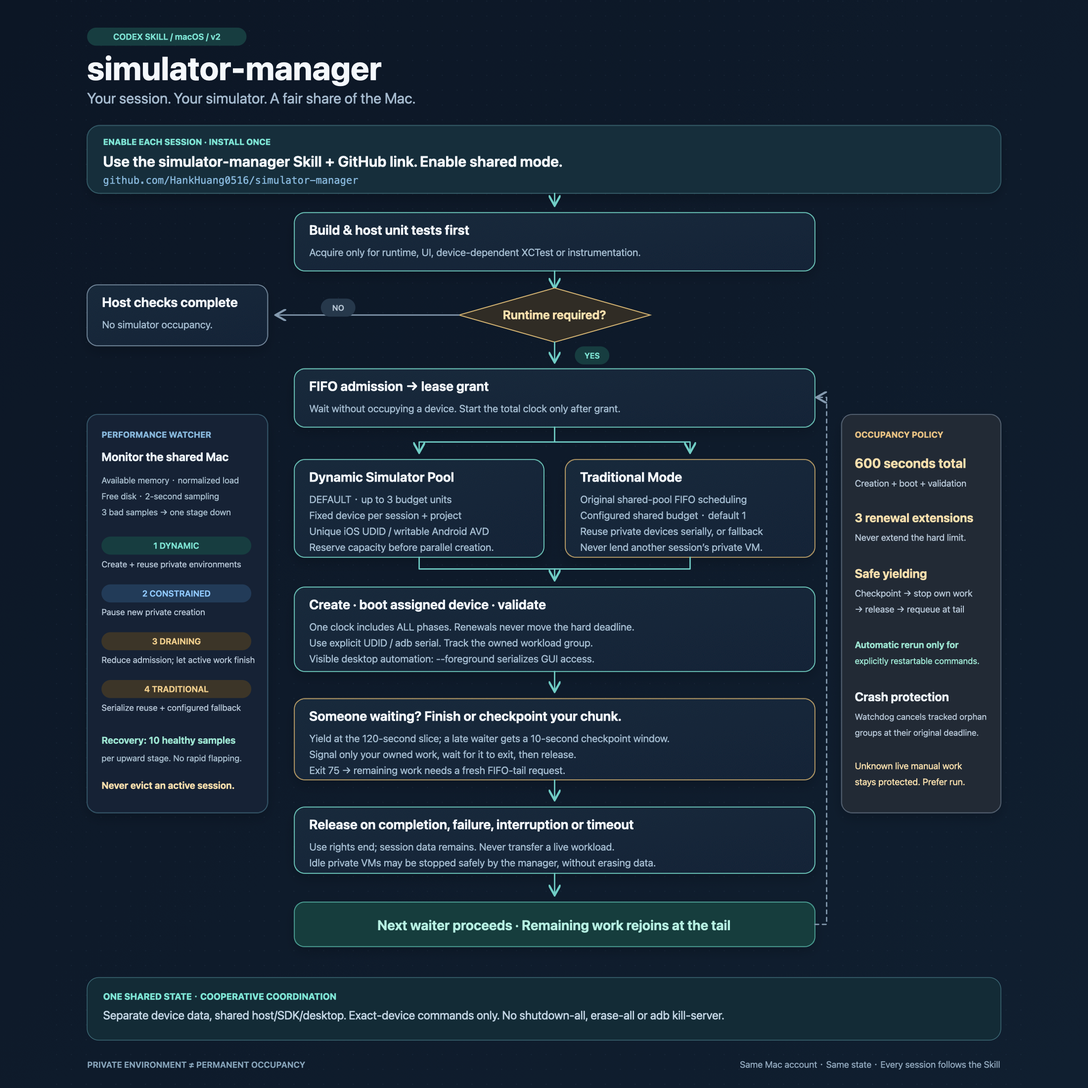
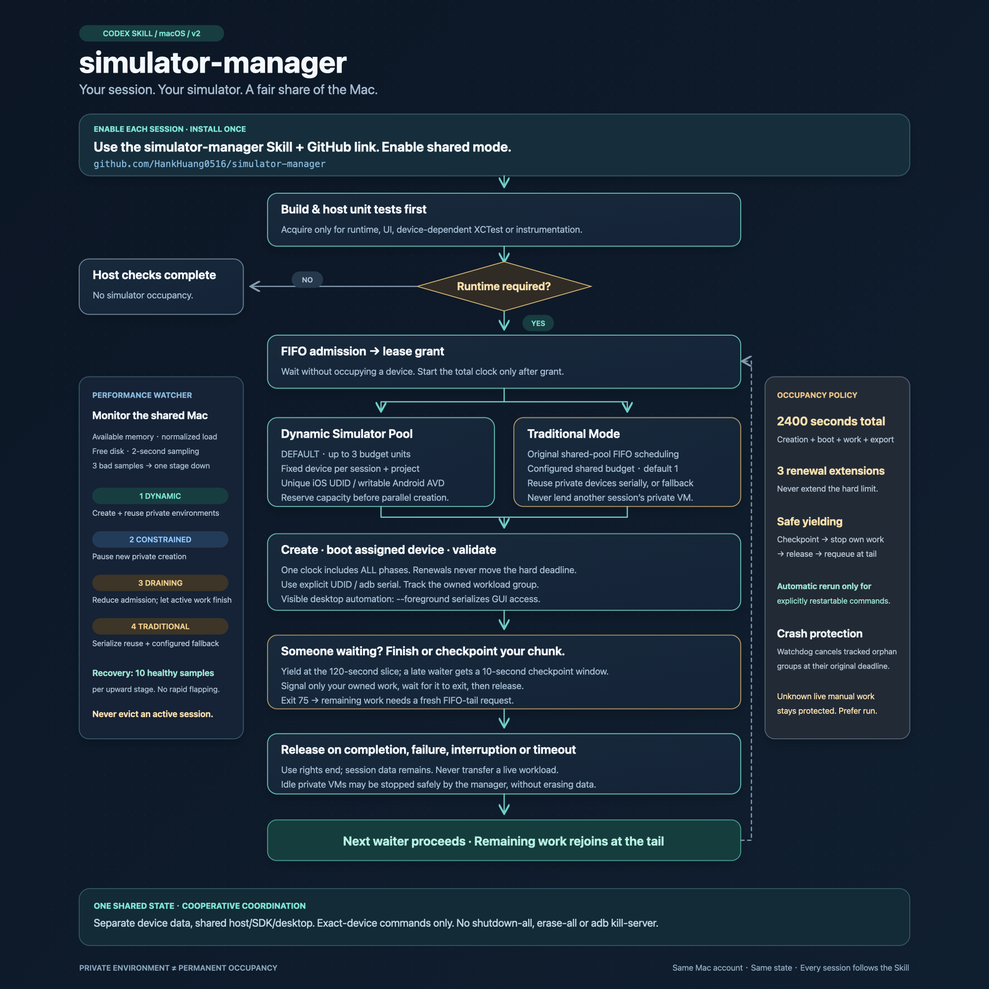
feat: allow 40-minute simulator occupancy

Changed region(s): [[0.775, 0.403, 0.899, 0.465]]

diff --git a/website/site.js b/website/site.js
@@ -1,6 +1,6 @@
 const copy = {
-  en: {eyebrow:"Local Codex Tool · macOS",headline:"Your session.<br><span>Your simulator.</span>",lead:"A fair, pressure-aware control plane for iOS Simulators and Android Emulators across every Codex task on your Mac.",download:"Download Tool",installNow:"Install in one command",compat:"macOS 13+ · Python 3.9+ · Xcode or Android SDK when needed",healthy:"Healthy",pressure:"HOST PRESSURE",dynamic:"Dynamic",privateReady:"3 private slots ready",activeLease:"ACTIVE LEASE",queue:"FIFO QUEUE",yieldIn:"Safe yield in 38s",running:"RUNNING",queued:"QUEUED",waiting:"WAITING",foregroundLane:"Foreground desktop lane",howKicker:"HOW IT WORKS",howTitle:"Codex asks. The manager schedules. Your test runs safely.",howBody:"Builds and unit tests stay on the host. Only runtime or UI checks enter the managed lane, use one exact device, then release automatically.",flowRequest:"Requests runtime validation",flowSchedule:"Checks pressure + FIFO",flowDevice:"Assigned device",flowRelease:"Runs, verifies, releases",privateTitle:"Private by default",privateBody:"Each session and project keeps a stable simulator environment and device data.",fairTitle:"Fair under load",fairBody:"A 10-minute total budget, bounded renewals, and 2-minute slices when someone waits.",pressureTitle:"Pressure aware",pressureBody:"Concurrency steps down gradually to Traditional FIFO before the Mac becomes overloaded.",releaseTitle:"Release, never power off",releaseBody:"Every task returns use rights on success, failure, interruption, timeout, or safe yield while the device stays warm.",installKicker:"INSTALL",installTitle:"One command. One sentence in Codex.",installBody:"The installer adds the CLI, Skill, public marketplace, and Plugin, creates an Applications entry, then opens the one shared dashboard and Quick Start. It uses no sudo and refuses to replace active or unmanaged installations.",copy:"Copy",thenSay:"Then start a new task and say",prompt:"Use simulator-manager for this project.",downloadZip:"Download ZIP",checksum:"SHA-256 checksum",docs:"Full documentation",afterInstallKicker:"AFTER INSTALL",afterInstallTitle:"One dashboard opens. Quick Start takes it from there.",afterInstallBody:"A five-step guide explains when Codex should request a simulator, why every task releases without powering it off, and what happens when a task bypasses the shared lane.",entryTitle:"One visible app entry",entryBody:"The custom routing icon keeps one Simulator Manager UI in the Dock. Repeated launches focus it; Recent Activity identifies each task and total occupancy.",guideTitle:"Built-in lessons",guideBody:"Replay Quick Start from the dashboard’s question-mark button whenever a task needs the rules.",coachTitle:"Task-specific coaching",coachBody:"Registered tasks that bypass leases or attempt simulator shutdown receive a safe managed replacement, even when a lease exists.",languageTitle:"Your language, automatically",languageBody:"The native dashboard follows the device language by default, with persistent English and Traditional Chinese choices.",default:"DEFAULT",dynamicTitle:"Dynamic Simulator Pool",dynamicBody:"Creates stable private iOS and Android environments lazily. Parallel work is admitted only while host resources allow it.",fallback:"AUTOMATIC FALLBACK",traditionalTitle:"Traditional FIFO",traditionalBody:"When pressure rises, work uses a bounded shared pool in queue order. Existing private data and active work stay protected.",privacyTitle:"Local by design",privacyBody:"Scheduling state, device identities, and test output stay on your Mac. Simulator Manager has no account, cloud service, analytics, or telemetry.",portfolio:"AI Hank Apps",copied:"Copied"},
-  "zh-Hant": {eyebrow:"本機 Codex 工具 · macOS",headline:"你的工作階段。<br><span>你的模擬器。</span>",lead:"在同一台 Mac 的所有 Codex 任務之間，公平且能感知效能壓力地管理 iOS Simulator 與 Android Emulator。",download:"下載工具",installNow:"一行指令安裝",compat:"macOS 13+ · Python 3.9+ · 依平台使用 Xcode 或 Android SDK",healthy:"運作正常",pressure:"主機效能壓力",dynamic:"動態模式",privateReady:"3 個私人環境可用",activeLease:"使用中的租約",queue:"FIFO 排隊",yieldIn:"38 秒後安全讓出",running:"執行中",queued:"排隊中",waiting:"等待中",foregroundLane:"前景桌面操作通道",howKicker:"運作方式",howTitle:"Codex 提出需求，管理器負責排程，測試安全執行。",howBody:"建置與單元測試先在主機完成。只有 runtime 或 UI 驗證才進入受管理通道，使用唯一指定裝置並自動釋放。",flowRequest:"提出 runtime 驗證需求",flowSchedule:"檢查效能與 FIFO",flowDevice:"分配指定裝置",flowRelease:"執行、驗證、釋放",privateTitle:"預設私人環境",privateBody:"每個工作階段與專案保有固定的模擬器環境和裝置資料。",fairTitle:"繁忙時保持公平",fairBody:"總占用上限 10 分鐘、續租次數有限；有人等待時每 2 分鐘安全讓出。",pressureTitle:"自動感知效能",pressureBody:"主機負載升高時逐步降低並行量，最後切換為傳統 FIFO。",releaseTitle:"只釋放，不關機",releaseBody:"每個 task 在成功、失敗、中斷、逾時或安全讓出時歸還使用權，並保留暖機裝置。",installKicker:"安裝",installTitle:"一行指令，再對 Codex 說一句話。",installBody:"安裝器會把 CLI、Skill、公開 marketplace 與 Plugin 安裝到使用者帳號、建立「應用程式」入口，接著開啟唯一的共用控制台和 Quick Start；不需要 sudo，也不會覆蓋使用中或不受管理的安裝。",copy:"複製",thenSay:"接著開啟新的 Codex 任務並輸入",prompt:"這個專案使用 simulator-manager。",downloadZip:"下載 ZIP",checksum:"SHA-256 校驗碼",docs:"完整說明文件",afterInstallKicker:"安裝完成後",afterInstallTitle:"唯一的控制台立即出現，Quick Start 接手教學。",afterInstallBody:"五個步驟會說明 Codex 何時該申請模擬器、為何每個 task 釋放後都不能關機，以及偏離共用通道時會發生什麼事。",entryTitle:"唯一且清楚的 App 入口",entryBody:"自訂路由圖示讓唯一的 Simulator Manager UI 顯示在 Dock；重複開啟只會喚回現有視窗，最近活動會列出 task 與總占用時間。",guideTitle:"內建系列教學",guideBody:"需要複習規則時，按控制台上的問號即可重新播放 Quick Start。",coachTitle:"針對 task 的專屬指引",coachBody:"已登記 task 若繞過租約或嘗試關閉模擬器，即使持有租約也會收到安全的受管理替代方式。",languageTitle:"依裝置語系自動顯示",languageBody:"原生浮框預設跟隨裝置語系，也可記住 English 或繁體中文選擇。",default:"預設模式",dynamicTitle:"Dynamic Simulator Pool",dynamicBody:"按需建立固定的私人 iOS 與 Android 環境；只有主機資源足夠時才允許並行工作。",fallback:"自動降級",traditionalTitle:"Traditional FIFO",traditionalBody:"主機壓力升高時改用容量受限的共用資源池並依序排隊；既有私人資料和執行中的工作都會受到保護。",privacyTitle:"從設計上保持本機運作",privacyBody:"排程狀態、裝置識別與測試輸出都留在你的 Mac。Simulator Manager 不需要帳號，也沒有雲端服務、分析或遙測。",portfolio:"AI Hank Apps 作品集",copied:"已複製"}
+  en: {eyebrow:"Local Codex Tool · macOS",headline:"Your session.<br><span>Your simulator.</span>",lead:"A fair, pressure-aware control plane for iOS Simulators and Android Emulators across every Codex task on your Mac.",download:"Download Tool",installNow:"Install in one command",compat:"macOS 13+ · Python 3.9+ · Xcode or Android SDK when needed",healthy:"Healthy",pressure:"HOST PRESSURE",dynamic:"Dynamic",privateReady:"3 private slots ready",activeLease:"ACTIVE LEASE",queue:"FIFO QUEUE",yieldIn:"Safe yield in 38s",running:"RUNNING",queued:"QUEUED",waiting:"WAITING",foregroundLane:"Foreground desktop lane",howKicker:"HOW IT WORKS",howTitle:"Codex asks. The manager schedules. Your test runs safely.",howBody:"Builds and unit tests stay on the host. Only runtime or UI checks enter the managed lane, use one exact device, then release automatically.",flowRequest:"Requests runtime validation",flowSchedule:"Checks pressure + FIFO",flowDevice:"Assigned device",flowRelease:"Runs, verifies, releases",privateTitle:"Private by default",privateBody:"Each session and project keeps a stable simulator environment and device data.",fairTitle:"Fair under load",fairBody:"A 40-minute total budget supports long tests; a waiting task still triggers a safe yield at 2 minutes.",pressureTitle:"Pressure aware",pressureBody:"Concurrency steps down gradually to Traditional FIFO before the Mac becomes overloaded.",releaseTitle:"Release, never power off",releaseBody:"Every task returns use rights on success, failure, interruption, timeout, or safe yield while the device stays warm.",installKicker:"INSTALL",installTitle:"One command. One sentence in Codex.",installBody:"The installer adds the CLI, Skill, public marketplace, and Plugin, creates an Applications entry, then opens the one shared dashboard and Quick Start. It uses no sudo and refuses to replace active or unmanaged installations.",copy:"Copy",thenSay:"Then start a new task and say",prompt:"Use simulator-manager for this project.",downloadZip:"Download ZIP",checksum:"SHA-256 checksum",docs:"Full documentation",afterInstallKicker:"AFTER INSTALL",afterInstallTitle:"One dashboard opens. Quick Start takes it from there.",afterInstallBody:"A five-step guide explains when Codex should request a simulator, why every task releases without powering it off, and what happens when a task bypasses the shared lane.",entryTitle:"One visible app entry",entryBody:"The custom routing icon keeps one Simulator Manager UI in the Dock. Repeated launches focus it; Recent Activity identifies each task and total occupancy.",guideTitle:"Built-in lessons",guideBody:"Replay Quick Start from the dashboard’s question-mark button whenever a task needs the rules.",coachTitle:"Task-specific coaching",coachBody:"Registered tasks that bypass leases or attempt simulator shutdown receive a safe managed replacement, even when a lease exists.",languageTitle:"Your language, automatically",languageBody:"The native dashboard follows the device language by default, with persistent English and Traditional Chinese choices.",default:"DEFAULT",dynamicTitle:"Dynamic Simulator Pool",dynamicBody:"Creates stable private iOS and Android environments lazily. Parallel work is admitted only while host resources allow it.",fallback:"AUTOMATIC FALLBACK",traditionalTitle:"Traditional FIFO",traditionalBody:"When pressure rises, work uses a bounded shared pool in queue order. Existing private data and active work stay protected.",privacyTitle:"Local by design",privacyBody:"Scheduling state, device identities, and test output stay on your Mac. Simulator Manager has no account, cloud service, analytics, or telemetry.",portfolio:"AI Hank Apps",copied:"Copied"},
+  "zh-Hant": {eyebrow:"本機 Codex 工具 · macOS",headline:"你的工作階段。<br><span>你的模擬器。</span>",lead:"在同一台 Mac 的所有 Codex 任務之間，公平且能感知效能壓力地管理 iOS Simulator 與 Android Emulator。",download:"下載工具",installNow:"一行指令安裝",compat:"macOS 13+ · Python 3.9+ · 依平台使用 Xcode 或 Android SDK",healthy:"運作正常",pressure:"主機效能壓力",dynamic:"動態模式",privateReady:"3 個私人環境可用",activeLease:"使用中的租約",queue:"FIFO 排隊",yieldIn:"38 秒後安全讓出",running:"執行中",queued:"排隊中",waiting:"等待中",foregroundLane:"前景桌面操作通道",howKicker:"運作方式",howTitle:"Codex 提出需求，管理器負責排程，測試安全執行。",howBody:"建置與單元測試先在主機完成。只有 runtime 或 UI 驗證才進入受管理通道，使用唯一指定裝置並自動釋放。",flowRequest:"提出 runtime 驗證需求",flowSchedule:"檢查效能與 FIFO",flowDevice:"分配指定裝置",flowRelease:"執行、驗證、釋放",privateTitle:"預設私人環境",privateBody:"每個工作階段與專案保有固定的模擬器環境和裝置資料。",fairTitle:"繁忙時保持公平",fairBody:"總占用上限 40 分鐘，可容納長時間測試；有人等待時仍須在 2 分鐘安全切點讓出。",pressureTitle:"自動感知效能",pressureBody:"主機負載升高時逐步降低並行量，最後切換為傳統 FIFO。",releaseTitle:"只釋放，不關機",releaseBody:"每個 task 在成功、失敗、中斷、逾時或安全讓出時歸還使用權，並保留暖機裝置。",installKicker:"安裝",installTitle:"一行指令，再對 Codex 說一句話。",installBody:"安裝器會把 CLI、Skill、公開 marketplace 與 Plugin 安裝到使用者帳號、建立「應用程式」入口，接著開啟唯一的共用控制台和 Quick Start；不需要 sudo，也不會覆蓋使用中或不受管理的安裝。",copy:"複製",thenSay:"接著開啟新的 Codex 任務並輸入",prompt:"這個專案使用 simulator-manager。",downloadZip:"下載 ZIP",checksum:"SHA-256 校驗碼",docs:"完整說明文件",afterInstallKicker:"安裝完成後",afterInstallTitle:"唯一的控制台立即出現，Quick Start 接手教學。",afterInstallBody:"五個步驟會說明 Codex 何時該申請模擬器、為何每個 task 釋放後都不能關機，以及偏離共用通道時會發生什麼事。",entryTitle:"唯一且清楚的 App 入口",entryBody:"自訂路由圖示讓唯一的 Simulator Manager UI 顯示在 Dock；重複開啟只會喚回現有視窗，最近活動會列出 task 與總占用時間。",guideTitle:"內建系列教學",guideBody:"需要複習規則時，按控制台上的問號即可重新播放 Quick Start。",coachTitle:"針對 task 的專屬指引",coachBody:"已登記 task 若繞過租約或嘗試關閉模擬器，即使持有租約也會收到安全的受管理替代方式。",languageTitle:"依裝置語系自動顯示",languageBody:"原生浮框預設跟隨裝置語系，也可記住 English 或繁體中文選擇。",default:"預設模式",dynamicTitle:"Dynamic Simulator Pool",dynamicBody:"按需建立固定的私人 iOS 與 Android 環境；只有主機資源足夠時才允許並行工作。",fallback:"自動降級",traditionalTitle:"Traditional FIFO",traditionalBody:"主機壓力升高時改用容量受限的共用資源池並依序排隊；既有私人資料和執行中的工作都會受到保護。",privacyTitle:"從設計上保持本機運作",privacyBody:"排程狀態、裝置識別與測試輸出都留在你的 Mac。Simulator Manager 不需要帳號，也沒有雲端服務、分析或遙測。",portfolio:"AI Hank Apps 作品集",copied:"已複製"}
 };
 
 const normalize = value => value && value.toLowerCase().startsWith("zh") ? "zh-Hant" : "en";

diff --git a/dashboard/SimulatorManager.swift b/dashboard/SimulatorManager.swift
@@ -147,14 +147,14 @@ func localizedGuide(_ zh: Bool) -> [GuideCopy] {
         GuideCopy(title:"歡迎使用 Simulator Manager",body:"這個小浮框是所有 Codex task 共用的模擬器中轉站。關閉視窗只會隱藏；可從選單列或「應用程式」再次打開。",bullets:["安裝完成後自動啟動","常駐選單列，隨時查看排程","不會清除任何模擬器資料"],symbol:"square.stack.3d.up.fill"),
         GuideCopy(title:"先完成不需要模擬器的檢查",body:"Codex 應先執行編譯、靜態檢查與主機單元測試；只有畫面、導覽、手勢、生命週期或執行期行為才進入分配流程。",bullets:["文件與純邏輯通常不需模擬器","需要 runtime/UI 驗證才提出請求","避免浪費啟動與佔用時間"],symbol:"hammer.fill"),
         GuideCopy(title:"讓 Tool 取得精確裝置",body:"在 Codex task 說「Use simulator-manager for this project.」。Tool 會排隊、啟動指定裝置、執行測試，並在成功、失敗、逾時或中斷後自動釋放。",bullets:["不得直接選擇 booted 裝置","不得使用未指定的 adb target","每個 task 都只能 release，必須保留暖機裝置"],symbol:"play.circle.fill"),
-        GuideCopy(title:"公平使用與安全讓位",body:"建立、開機與測試共用同一個 10 分鐘上限；有人等待時，工作必須在安全切點完成並回到隊尾。",bullets:["總佔用上限包含開機","續租次數有限","禁止 simctl shutdown、adb emu kill 或關閉 emulator"],symbol:"person.2.fill"),
+        GuideCopy(title:"公平使用與安全讓位",body:"建立、開機、安裝、測試與匯出共用同一個 40 分鐘上限；有人等待時，仍須在 2 分鐘安全切點完成並回到隊尾。",bullets:["1800 秒 soak 可在無人等待時完成","總佔用上限包含開機與匯出","禁止 simctl shutdown、adb emu kill 或關閉 emulator"],symbol:"person.2.fill"),
         GuideCopy(title:"偏離規則時會主動教學",body:"監督程式只讀取已登記 task 的程序關係。發現直接使用 simctl、adb、emulator 或未租用的模擬器測試時，會標記該 task 並產生修正指引。",bullets:["只記錄動作種類，不保存完整命令","不會終止 task 或裝置","已採用 Tool 的 task 會在下次互動收到專屬指引"],symbol:"graduationcap.fill")
     ] }
     return [
         GuideCopy(title:"Welcome to Simulator Manager",body:"This floating dashboard is the shared control plane between Codex tasks and mobile simulators. Closing the panel only hides it; reopen it from the menu bar or Applications.",bullets:["Opens after installation","Lives in the menu bar","Never erases simulator data"],symbol:"square.stack.3d.up.fill"),
         GuideCopy(title:"Run host checks first",body:"Codex should finish builds, static checks, and host unit tests before requesting a device. Enter the managed lane only for UI or runtime behavior.",bullets:["Docs and pure logic usually need no simulator","Request only for runtime or UI validation","Avoid unnecessary boot and occupancy time"],symbol:"hammer.fill"),
         GuideCopy(title:"Let the Tool assign one exact device",body:"Tell a Codex task “Use simulator-manager for this project.” The Tool queues, boots, runs, and releases after success, failure, interruption, or timeout.",bullets:["Never target booted implicitly","Never use an unspecified adb target","Every task must release and leave the verified device warm"],symbol:"play.circle.fill"),
-        GuideCopy(title:"Share fairly and yield safely",body:"Creation, boot, and testing share one 10-minute cap. When someone waits, checkpoint safely and rejoin at the back of the queue.",bullets:["Boot time counts toward occupancy","Renewals are bounded","Never shut down a device; the manager reuses or retires it"],symbol:"person.2.fill"),
+        GuideCopy(title:"Share fairly and yield safely",body:"Creation, boot, installation, testing, and export share one 40-minute cap. When someone waits, checkpoint at the 2-minute boundary and rejoin at the back of the queue.",bullets:["A 1800-second soak fits while nobody waits","Boot and export count toward occupancy","Never shut down a device; the manager reuses or retires it"],symbol:"person.2.fill"),
         GuideCopy(title:"Coaching appears when a task drifts",body:"The watcher reads process relationships for registered tasks. Direct simctl, adb, emulator, or unleased simulator tests create targeted guidance.",bullets:["Stores the action type, never the full command","Never kills a task or device","Tool-enabled tasks receive their lesson on the next interaction"],symbol:"graduationcap.fill")
     ]
 }

diff --git a/website/index.html b/website/index.html
@@ -11,14 +11,14 @@
   <meta property="og:type" content="website">
   <meta property="og:url" content="https://eclawbot.com/AiHankApps/tools/simulator-manager/">
   <link rel="canonical" href="https://eclawbot.com/AiHankApps/tools/simulator-manager/">
-  <link rel="icon" type="image/png" href="simulator-manager-icon.png?v=3.4.1">
-  <link rel="stylesheet" href="site.css?v=3.4.1">
-  <script src="site.js?v=3.4.1" defer></script>
+  <link rel="icon" type="image/png" href="simulator-manager-icon.png?v=3.5.0">
+  <link rel="stylesheet" href="site.css?v=3.5.0">
+  <script src="site.js?v=3.5.0" defer></script>
 </head>
 <body>
   <div class="aurora a1"></div><div class="aurora a2"></div>
   <nav class="nav shell" aria-label="Main navigation">
-    <a class="brand" href="./"><img class="brand-icon" src="simulator-manager-icon.png?v=3.4.1" alt=""><span>Simulator Manager</span></a>
+    <a class="brand" href="./"><img class="brand-icon" src="simulator-manager-icon.png?v=3.5.0" alt=""><span>Simulator Manager</span></a>
     <div class="nav-actions">
       <div class="language" aria-label="Language"><button type="button" data-lang="en">EN</button><button type="button" data-lang="zh-Hant">中文</button></div>
       <a class="ghost" href="https://github.com/HankHuang0516/simulator-manager">GitHub</a>
@@ -27,7 +27,7 @@
 
   <main>
     <section class="hero shell">
-      <img class="hero-app-icon" src="simulator-manager-icon.png?v=3.4.1" alt="Simulator Manager app icon">
+      <img class="hero-app-icon" src="simulator-manager-icon.png?v=3.5.0" alt="Simulator Manager app icon">
       <div class="eyebrow"><span class="live-dot"></span><span data-sm-i18n="eyebrow">Local Codex Tool · macOS</span></div>
       <h1 data-sm-i18n="headline">Your session.<br><span>Your simulator.</span></h1>
       <p class="lead" data-sm-i18n="lead">A fair, pressure-aware control plane for iOS Simulators and Android Emulators across every Codex task on your Mac.</p>
@@ -62,7 +62,7 @@
 
     <section class="section shell cards">
       <article><div class="icon blue">◇</div><h3 data-sm-i18n="privateTitle">Private by default</h3><p data-sm-i18n="privateBody">Each session and project keeps a stable simulator environment and device data.</p></article>
-      <article><div class="icon green">↯</div><h3 data-sm-i18n="fairTitle">Fair under load</h3><p data-sm-i18n="fairBody">A 10-minute total budget, bounded renewals, and 2-minute slices when someone waits.</p></article>
+      <article><div class="icon green">↯</div><h3 data-sm-i18n="fairTitle">Fair under load</h3><p data-sm-i18n="fairBody">A 40-minute total budget supports long tests; a waiting task still triggers a safe yield at 2 minutes.</p></article>
       <article><div class="icon purple">⌁</div><h3 data-sm-i18n="pressureTitle">Pressure aware</h3><p data-sm-i18n="pressureBody">Concurrency steps down gradually to Traditional FIFO before the Mac becomes overloaded.</p></article>
       <article><div class="icon orange">✓</div><h3 data-sm-i18n="releaseTitle">Guaranteed release</h3><p data-sm-i18n="releaseBody">Supervised work releases on success, failure, interruption, timeout, or safe yield.</p></article>
     </section>

diff --git a/plugins/simulator-manager/scripts/mcp_server.py b/plugins/simulator-manager/scripts/mcp_server.py
@@ -12,7 +12,7 @@ import sys
 from typing import Any
 
 PROTOCOL_VERSION = "2025-03-26"
-SERVER_VERSION = "3.4.1"
+SERVER_VERSION = "3.5.0"
 MAX_CAPTURE = 32768
 
 TOOLS = [
@@ -37,7 +37,7 @@ TOOLS = [
     },
     {
         "name": "simulator_manager_run",
-        "description": "Acquire through FIFO admission, optionally boot the assigned device, run one argv command under the total occupancy deadline, and always release without powering off the simulator/emulator. Explicit shutdown actions are rejected. Use only after build/unit checks show runtime or UI validation is needed.",
+        "description": "Acquire through FIFO admission, optionally boot the assigned device, run one argv command under a total occupancy deadline of up to 2400 seconds, and always release without powering off the simulator/emulator. If another task waits, checkpoint at the 120-second fair-use boundary and requeue. Explicit shutdown actions are rejected. Use only after build/unit checks show runtime or UI validation is needed.",
         "inputSchema": {
             "type": "object",
             "properties": {
@@ -48,8 +48,8 @@ TOOLS = [
                 "boot": {"type": "boolean", "default": True},
                 "foreground": {"type": "boolean", "default": False},
                 "queue_timeout_seconds": {"type": "number", "minimum": 0, "maximum": 900, "default": 300},
-                "command_timeout_seconds": {"type": "number", "exclusiveMinimum": 0, "maximum": 600, "default": 600},
-                "budget_seconds": {"type": "number", "exclusiveMinimum": 0, "maximum": 600, "default": 600},
+                "command_timeout_seconds": {"type": "number", "exclusiveMinimum": 0, "maximum": 2400, "default": 2400},
+                "budget_seconds": {"type": "number", "exclusiveMinimum": 0, "maximum": 2400, "default": 2400},
                 "restartable": {"type": "boolean", "default": False},
                 "max_requeues": {"type": "integer", "minimum": 0, "maximum": 3, "default": 0},
             },
@@ -192,8 +192,8 @@ def invoke_tool(name: str, arguments: dict[str, Any] | None) -> dict[str, Any]:
             raise ToolError("command must be a non-empty array of non-empty argv strings")
         _reject_runtime_shutdown(command)
         queue_timeout = _number(a.get("queue_timeout_seconds", 300), "queue_timeout_seconds", 0, 900)
-        command_timeout = _number(a.get("command_timeout_seconds", 600), "command_timeout_seconds", 0.001, 600)
-        budget = _number(a.get("budget_seconds", 600), "budget_seconds", 0.001, 600)
+        command_timeout = _number(a.get("command_timeout_seconds", 2400), "command_timeout_seconds", 0.001, 2400)
+        budget = _number(a.get("budget_seconds", 2400), "budget_seconds", 0.001, 2400)
         max_requeues = a.get("max_requeues", 0)
         if isinstance(max_requeues, bool) or not isinstance(max_requeues, int) or not 0 <= max_requeues <= 3:
             raise ToolError("max_requeues must be an integer from 0 to 3")

diff --git a/tests/test_mcp_server.py b/tests/test_mcp_server.py
@@ -30,6 +30,14 @@ class MCPServerTests(unittest.TestCase):
             "simulator_manager_guidance",
         })
 
+    def test_run_schema_allows_forty_minute_occupancy(self):
+        run_tool = next(tool for tool in MCP.TOOLS if tool["name"] == "simulator_manager_run")
+        props = run_tool["inputSchema"]["properties"]
+        self.assertEqual(props["command_timeout_seconds"]["default"], 2400)
+        self.assertEqual(props["command_timeout_seconds"]["maximum"], 2400)
+        self.assertEqual(props["budget_seconds"]["default"], 2400)
+        self.assertEqual(props["budget_seconds"]["maximum"], 2400)
+
     def test_enable_registers_long_lived_mcp_owner_and_returns_guidance(self):
         completed = subprocess.CompletedProcess([], 0, '{"shared_mode":true}\n', "")
         with mock.patch.object(MCP, "cli_path", return_value="/tmp/sim-manager"), \
@@ -46,13 +54,21 @@ class MCPServerTests(unittest.TestCase):
              mock.patch.object(MCP.subprocess, "run", return_value=completed) as run:
             result = MCP.invoke_tool("simulator_manager_run", {
                 "platform": "ios", "session": "task-1", "project": "/tmp/app",
-                "command": ["xcodebuild", "test"], "budget_seconds": 90,
+                "command": ["xcodebuild", "test"], "command_timeout_seconds": 1800,
+                "budget_seconds": 2400,
             })
         self.assertTrue(result["released"])
         argv = run.call_args.args[0]
         self.assertEqual(argv[-3:], ["--", "xcodebuild", "test"])
         self.assertIn("--boot", argv)
+        self.assertEqual(argv[argv.index("--command-timeout") + 1], "1800.0")
+        self.assertEqual(argv[argv.index("--budget-seconds") + 1], "2400.0")
         self.assertIs(run.call_args.kwargs["shell"], False)
+
+    def test_run_rejects_occupancy_above_forty_minutes(self):
+        base = {"platform": "ios", "session": "s", "project": "/tmp/p", "command": ["true"]}
+        with self.assertRaisesRegex(MCP.ToolError, "between 0.001 and 2400"):
+            MCP.invoke_tool("simulator_manager_run", {**base, "budget_seconds": 2401})
 
     def test_run_rejects_shell_string_and_unsafe_requeue(self):
         base = {"platform": "android", "session": "s", "project": "/tmp/p"}

diff --git a/sim_manager/core.py b/sim_manager/core.py
@@ -104,7 +104,7 @@ def normalize_config(c):
     if c['mode'] not in ('dynamic','traditional'):
         raise ManagerError('mode must be dynamic or traditional')
     defaults = {
-        'policy':{'max_hold_seconds':600,'max_renewals':3,'waiter_slice_seconds':120,'yield_grace_seconds':10},
+        'policy':{'max_hold_seconds':2400,'max_renewals':3,'waiter_slice_seconds':120,'yield_grace_seconds':10},
         'dynamic':{'max_parallel':3,'max_environments':24,'idle_shutdown_seconds':120},
         'monitor':{'sample_seconds':2,'low_memory_percent':20,'critical_memory_percent':10,
                    'recovery_memory_percent':30,'high_load_ratio':.85,'critical_load_ratio':1.25,
@@ -122,7 +122,7 @@ def normalize_config(c):
                 positive(c[section][key],section+'.'+key,key=='max_renewals')
                 if key in ('max_renewals','max_parallel','max_environments','bad_samples','good_samples') and not isinstance(c[section][key],int):
                     raise ManagerError(section+'.'+key+' must be an integer')
-    c.setdefault('lease_seconds', 900)
+    c.setdefault('lease_seconds', 2400)
     c.setdefault('poll_seconds', .25)
     c.setdefault('global_capacity', 2)
     positive(c['lease_seconds'], 'lease_seconds')
@@ -234,7 +234,7 @@ class Manager:
                 if name not in columns:
                     self.db.execute('ALTER TABLE leases ADD COLUMN '+name+' '+definition)
             columns = {r['name'] for r in self.db.execute('PRAGMA table_info(queue)')}
-            for name, definition in [('requested_mode',"TEXT NOT NULL DEFAULT 'auto'"),('foreground','INTEGER NOT NULL DEFAULT 0'),('budget','REAL NOT NULL DEFAULT 600')]:
+            for name, definition in [('requested_mode',"TEXT NOT NULL DEFAULT 'auto'"),('foreground','INTEGER NOT NULL DEFAULT 0'),('budget','REAL NOT NULL DEFAULT 2400')]:
                 if name not in columns:
                     self.db.execute('ALTER TABLE queue ADD COLUMN '+name+' '+definition)
             columns = {r['name'] for r in self.db.execute('PRAGMA table_info(events)')}

diff --git a/sim_manager/cli.py b/sim_manager/cli.py
@@ -59,7 +59,7 @@ def parser():
             s.add_argument('--max-requeues',type=int,default=3)
             s.add_argument('--boot', action='store_true')
             s.add_argument('--boot-timeout', type=float, default=180)
-            s.add_argument('--command-timeout', type=float, default=600)
+            s.add_argument('--command-timeout', type=float, default=2400)
             # Commands must follow --. Parse separately so options before -- work.
     for name in ('release','renew','boot','repair-android-target'):
         s = subs.add_parser(name, parents=[common])

diff --git a/sim_manager/__init__.py b/sim_manager/__init__.py
@@ -1,1 +1,1 @@
-__version__ = '3.4.1'
+__version__ = '3.5.0'

diff --git a/plugins/simulator-manager/skills/simulator-manager/SKILL.md b/plugins/simulator-manager/skills/simulator-manager/SKILL.md
@@ -33,13 +33,13 @@ Call `simulator_manager_run` with `platform`, the saved `session`, the canonical
 The equivalent CLI form is:
 
 ```sh
-sim-manager run ios --session '<saved-label>' --project '/saved/absolute/project/path' --boot --timeout 300 --budget-seconds 600 -- sh -eu -c '
+sim-manager run ios --session '<saved-label>' --project '/saved/absolute/project/path' --boot --timeout 300 --command-timeout 2400 --budget-seconds 2400 -- sh -eu -c '
   xcodebuild test-without-building -scheme MyApp -destination "id=$SIM_MANAGER_UDID"
 '
 ```
 
 ```sh
-sim-manager run android --session '<saved-label>' --project '/saved/absolute/project/path' --boot --timeout 300 --budget-seconds 600 -- sh -eu -c '
+sim-manager run android --session '<saved-label>' --project '/saved/absolute/project/path' --boot --timeout 300 --command-timeout 2400 --budget-seconds 2400 -- sh -eu -c '
   adb -s "$SIM_MANAGER_SERIAL" install -r app/build/outputs/apk/debug/app-debug.apk
   adb -s "$SIM_MANAGER_SERIAL" shell am start -n com.example.app/.MainActivity
   # Add meaningful, explicitly targeted runtime assertions.
@@ -54,9 +54,9 @@ Only use assigned `SIM_MANAGER_UDID` / `SIM_MANAGER_SERIAL`. Never use `booted`,
 
 ## Occupancy and fair-use rules
 
-- Default total use budget: **600 seconds including creation and boot**. Request less with `--budget-seconds`; never exceed the shared maximum. Do not reset the clock by switching phases or renewing.
+- Default total use budget: **2400 seconds (40 minutes) including creation, boot, installation, validation and artifact export**. Request less with `--budget-seconds`; never exceed the shared maximum. A 1800-second soak fits only when no waiter arrives. Do not reset the clock by switching phases or renewing.
 - At most **3 actual lease extensions**. No-op renewal checks do not count; every extension remains capped by the original hard deadline. An expired lease cannot be revived. Finish/cancel, release and request a fresh lease.
-- When someone waits, yield at the **120-second** slice boundary. If that boundary is already past, the manager gives a **10-second** checkpoint window, capped by the original deadline. Observe the reported `yield_by` and remaining time.
+- When someone waits, yield at the **120-second** slice boundary even if the 2400-second hard limit has time remaining. If that boundary is already past, the manager gives a **10-second** checkpoint window, capped by the original deadline. Observe the reported `yield_by` and remaining time.
 - Split validation into short chunks. Handle SIGTERM by checkpointing and exiting; the supervisor then cancels surviving owned processes after its termination grace. Cancellation is not arbitrary side-effect rollback.
 - Exit **75** means safely yielded: request remaining work again at the **FIFO tail**. Keep the same environment label, but obtain a new lease token. Never continue using the simulator between leases or jump the queue.
 - Only explicitly checkpointed/restartable commands may use `--requeue-on-yield --max-requeues 3`. Otherwise save remaining steps and request them separately. If retries/queue wait end, report pending validation and requeue remaining work when continuing; never silently skip it.

diff --git a/skill/simulator-manager/SKILL.md b/skill/simulator-manager/SKILL.md
@@ -33,13 +33,13 @@ Call `simulator_manager_run` with `platform`, the saved `session`, the canonical
 The equivalent CLI form is:
 
 ```sh
-sim-manager run ios --session '<saved-label>' --project '/saved/absolute/project/path' --boot --timeout 300 --budget-seconds 600 -- sh -eu -c '
+sim-manager run ios --session '<saved-label>' --project '/saved/absolute/project/path' --boot --timeout 300 --command-timeout 2400 --budget-seconds 2400 -- sh -eu -c '
   xcodebuild test-without-building -scheme MyApp -destination "id=$SIM_MANAGER_UDID"
 '
 ```
 
 ```sh
-sim-manager run android --session '<saved-label>' --project '/saved/absolute/project/path' --boot --timeout 300 --budget-seconds 600 -- sh -eu -c '
+sim-manager run android --session '<saved-label>' --project '/saved/absolute/project/path' --boot --timeout 300 --command-timeout 2400 --budget-seconds 2400 -- sh -eu -c '
   adb -s "$SIM_MANAGER_SERIAL" install -r app/build/outputs/apk/debug/app-debug.apk
   adb -s "$SIM_MANAGER_SERIAL" shell am start -n com.example.app/.MainActivity
   # Add meaningful, explicitly targeted runtime assertions.
@@ -54,9 +54,9 @@ Only use assigned `SIM_MANAGER_UDID` / `SIM_MANAGER_SERIAL`. Never use `booted`,
 
 ## Occupancy and fair-use rules
 
-- Default total use budget: **600 seconds including creation and boot**. Request less with `--budget-seconds`; never exceed the shared maximum. Do not reset the clock by switching phases or renewing.
+- Default total use budget: **2400 seconds (40 minutes) including creation, boot, installation, validation and artifact export**. Request less with `--budget-seconds`; never exceed the shared maximum. A 1800-second soak fits only when no waiter arrives. Do not reset the clock by switching phases or renewing.
 - At most **3 actual lease extensions**. No-op renewal checks do not count; every extension remains capped by the original hard deadline. An expired lease cannot be revived. Finish/cancel, release and request a fresh lease.
-- When someone waits, yield at the **120-second** slice boundary. If that boundary is already past, the manager gives a **10-second** checkpoint window, capped by the original deadline. Observe the reported `yield_by` and remaining time.
+- When someone waits, yield at the **120-second** slice boundary even if the 2400-second hard limit has time remaining. If that boundary is already past, the manager gives a **10-second** checkpoint window, capped by the original deadline. Observe the reported `yield_by` and remaining time.
 - Split validation into short chunks. Handle SIGTERM by checkpointing and exiting; the supervisor then cancels surviving owned processes after its termination grace. Cancellation is not arbitrary side-effect rollback.
 - Exit **75** means safely yielded: request remaining work again at the **FIFO tail**. Keep the same environment label, but obtain a new lease token. Never continue using the simulator between leases or jump the queue.
 - Only explicitly checkpointed/restartable commands may use `--requeue-on-yield --max-requeues 3`. Otherwise save remaining steps and request them separately. If retries/queue wait end, report pending validation and requeue remaining work when continuing; never silently skip it.

diff --git a/SESSION_START.md b/SESSION_START.md
@@ -5,7 +5,7 @@ This is the agent procedure for the user request:
 > Use the simulator-manager Skill from https://github.com/HankHuang0516/simulator-manager and enable shared mode for this session.
 
 1. Read `skill/simulator-manager/SKILL.md` from this repository. Adopt its rules for the current session, including builds/host tests first, explicit device targets, supervised runtime work, and release on completion/failure.
-2. If the Simulator Manager Tool is available, call `simulator_manager_enable` with the actual task label and canonical project path. Otherwise use a managed `sim-manager` version 3.4.1 and run `enable --session ACTUAL_SESSION_LABEL --project ACTUAL_PROJECT_PATH --prepare --json`. Read its installed `references/installation.md` to preserve the shared state path. Use the same custom `--state-dir` when one was previously configured. Do not create a per-project state directory.
+2. If the Simulator Manager Tool is available, call `simulator_manager_enable` with the actual task label and canonical project path. Otherwise use a managed `sim-manager` version 3.5.0 and run `enable --session ACTUAL_SESSION_LABEL --project ACTUAL_PROJECT_PATH --prepare --json`. Read its installed `references/installation.md` to preserve the shared state path. Use the same custom `--state-dir` when one was previously configured. Do not create a per-project state directory.
 3. Otherwise clone this repository into a newly created temporary directory, then execute `bootstrap.sh --session ACTUAL_SESSION_LABEL --project ACTUAL_PROJECT_PATH`. Do not overwrite an existing checkout. Bootstrap installs once, serializes concurrent installation, reuses managed files, and preserves the pool config. It defaults to the documented user Skill directory `~/.agents/skills`, or reuses a managed legacy installation.
 4. Save the returned session label, canonical absolute project path, CLI path, and state path in the current session context. If there is no actual task ID available, let bootstrap generate the label and use that returned label consistently. A registration label is attribution, not a process lease. Do not invent an owner PID.
 5. Read `mode`, `platforms`, and `watcher` in the response. New installations default to Dynamic Simulator Pool; legacy configs retain Traditional Mode until explicitly changed after draining. Private session environments are created lazily on acquire; setup prepares Traditional fallback slots. The watcher samples host pressure and retires only unleased private VMs. Automatic setup creates new dedicated **shutdown** devices only from installed SDK components. It does not boot devices, download runtimes, adopt personal simulators, or overwrite a disabled/custom pool. If SDK components are missing or setup is deferred, shared mode is enabled but that platform is not ready; report the exact reason and retry `setup ios|android` when runtime validation is needed.

diff --git a/README.md b/README.md
@@ -60,7 +60,7 @@ This is device-data isolation similar to dedicated development environments. It 
 
 Private identity does not mean permanent occupancy. Keep the returned session label stable, including across tool calls. A new label or different project path creates a different environment. At `max_environments`, new owners wait/timeout; existing environments are never silently erased or reassigned. Failed partial creations remain visible and quarantined for operator inspection.
 
-Existing configurations without `mode` retain Traditional Mode. Upgrades preserve configuration. To opt in, drain work, set `"mode": "dynamic"`, and keep every session on version 3.4.1.
+Existing configurations without `mode` retain Traditional Mode. Upgrades preserve configuration. To opt in, drain work, set `"mode": "dynamic"`, and keep every session on version 3.5.0.
 
 ## Time limits and fair yielding
 
@@ -68,7 +68,7 @@ New-install defaults:
 
 | Policy | Default | Enforcement |
 | --- | --- | --- |
-| `max_hold_seconds` | 600 seconds | Includes environment creation, boot and work from lease grant |
+| `max_hold_seconds` | 2400 seconds | Includes environment creation, boot, installation, validation and export from lease grant |
 | `max_renewals` | 3 actual extensions | No renewal can move the total deadline; no-op renewals do not count |
 | `waiter_slice_seconds` | 120 seconds | When another session waits, the current borrower must yield at its slice boundary |
 | `yield_grace_seconds` | 10 seconds | If the slice is already used, give a short checkpoint window |
@@ -148,7 +148,7 @@ Pass the same canonical `--project` on every acquire/run. If omitted, the curren
 
 ```sh
 # Host build and unit tests first; runtime work only inside the lease.
-sim-manager run ios --session my-session --project /absolute/project/path --boot --budget-seconds 600 -- sh -eu -c '
+sim-manager run ios --session my-session --project /absolute/project/path --boot --command-timeout 2400 --budget-seconds 2400 -- sh -eu -c '
   xcodebuild test-without-building -scheme MyApp -destination "id=$SIM_MANAGER_UDID"
 '
 sim-manager run android --session my-session --project /absolute/project/path --boot -- sh -eu -c '
